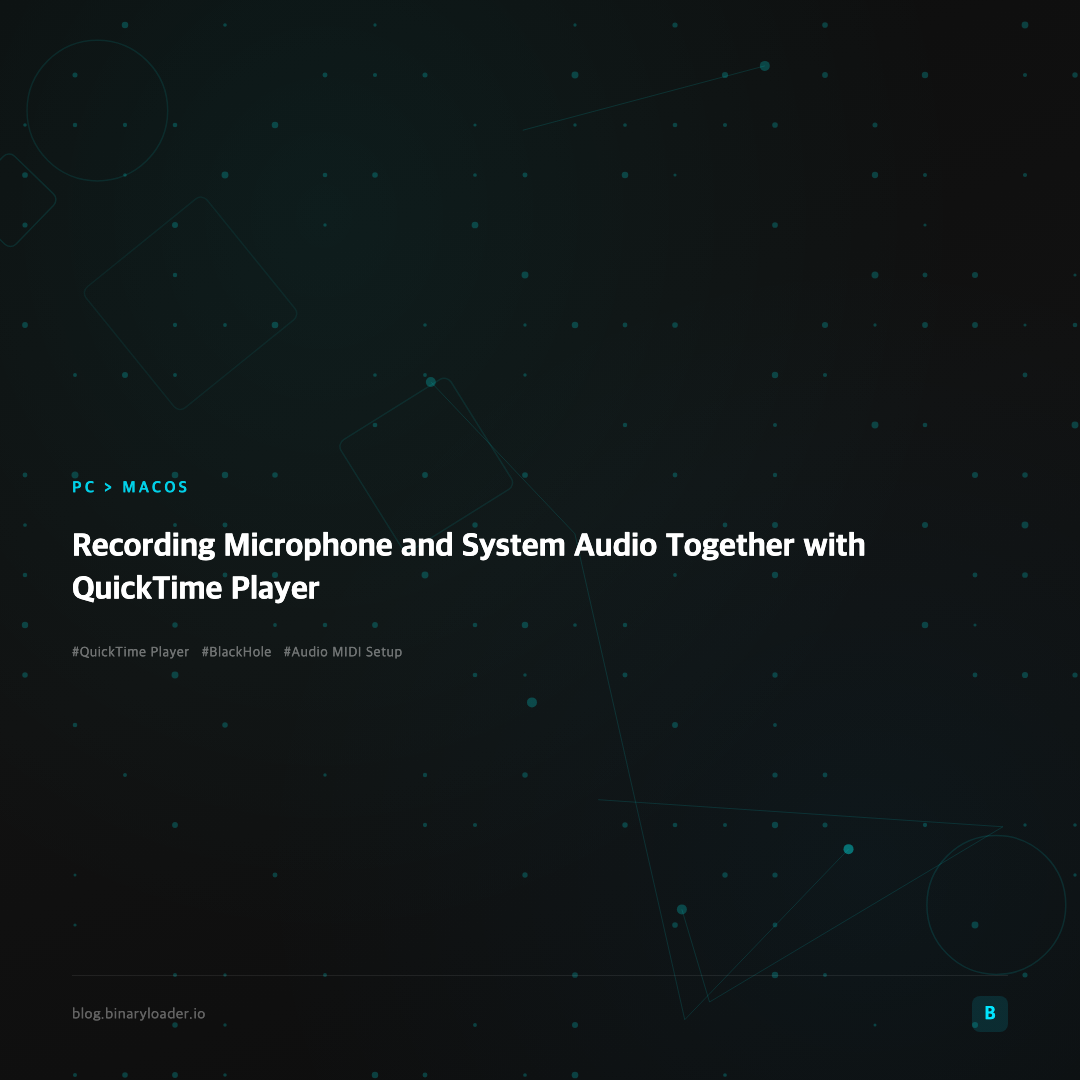
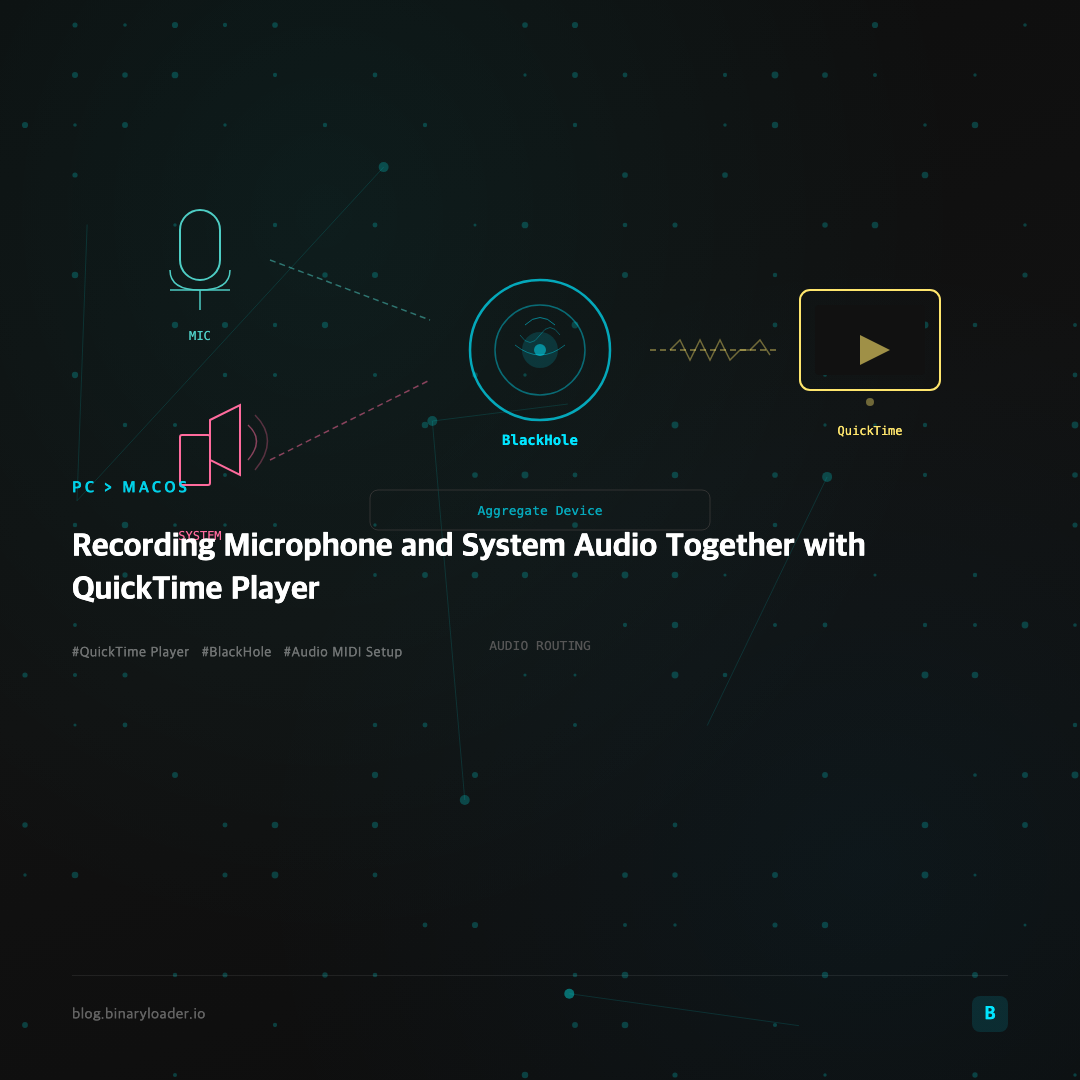
feat: add custom illustration for BlackHole audio recording post

diff --git a/tools/thumbnail/lib/illustrations.js b/tools/thumbnail/lib/illustrations.js
@@ -1491,6 +1491,61 @@ function illustrationBuildingClaudeVoiceAssistant() {
   `;
 }
 
+// 53. QuickTime BlackHole audio recording
+function illustrationQuicktimeBlackholeAudioRecording() {
+  return `
+    <rect x="0" y="0" width="1080" height="700" fill="none"/>
+    <!-- Microphone -->
+    <g transform="translate(200, 260)">
+      <rect x="-20" y="-50" width="40" height="70" rx="20" fill="none" stroke="#4ecdc4" stroke-width="2"/>
+      <line x1="-30" y1="30" x2="30" y2="30" stroke="#4ecdc4" stroke-width="1.5"/>
+      <path d="M-30,10 Q-30,30 0,30 Q30,30 30,10" fill="none" stroke="#4ecdc4" stroke-width="1.5"/>
+      <line x1="0" y1="30" x2="0" y2="50" stroke="#4ecdc4" stroke-width="1.5"/>
+    </g>
+    <text x="200" y="340" text-anchor="middle" font-family="monospace" font-size="12" fill="#4ecdc4">MIC</text>
+    <!-- Speaker / System Audio -->
+    <g transform="translate(200, 460)">
+      <rect x="-20" y="-25" width="30" height="50" rx="2" fill="none" stroke="#ff6b9d" stroke-width="2"/>
+      <polygon points="10,-40 40,-55 40,15 10,0" fill="none" stroke="#ff6b9d" stroke-width="2"/>
+      <path d="M48,-35 Q65,-20 48,0" fill="none" stroke="#ff6b9d" stroke-width="1.5" opacity="0.5"/>
+      <path d="M55,-45 Q80,-20 55,10" fill="none" stroke="#ff6b9d" stroke-width="1.5" opacity="0.3"/>
+    </g>
+    <text x="200" y="540" text-anchor="middle" font-family="monospace" font-size="12" fill="#ff6b9d">SYSTEM</text>
+    <!-- Audio flow lines to BlackHole -->
+    <line x1="270" y1="260" x2="430" y2="320" stroke="#4ecdc4" stroke-width="1.5" stroke-dasharray="6,4" opacity="0.5"/>
+    <line x1="270" y1="460" x2="430" y2="380" stroke="#ff6b9d" stroke-width="1.5" stroke-dasharray="6,4" opacity="0.5"/>
+    <!-- BlackHole virtual driver -->
+    <g transform="translate(540, 350)">
+      <circle cx="0" cy="0" r="70" fill="none" stroke="#00e5ff" stroke-width="2.5" opacity="0.7"/>
+      <circle cx="0" cy="0" r="45" fill="none" stroke="#00e5ff" stroke-width="1.5" opacity="0.4"/>
+      <circle cx="0" cy="0" r="18" fill="#00e5ff" opacity="0.15"/>
+      <circle cx="0" cy="0" r="6" fill="#00e5ff" opacity="0.5"/>
+    </g>
+    <text x="540" y="445" text-anchor="middle" font-family="monospace" font-size="14" font-weight="bold" fill="#00e5ff">BlackHole</text>
+    <!-- Swirl effect in BlackHole -->
+    <path d="M525,325 Q540,310 555,325" fill="none" stroke="#00e5ff" stroke-width="1" opacity="0.5"/>
+    <path d="M515,345 Q540,365 565,345" fill="none" stroke="#00e5ff" stroke-width="1" opacity="0.4"/>
+    <path d="M520,335 Q530,350 540,335 Q550,320 560,335" fill="none" stroke="#00e5ff" stroke-width="1" opacity="0.3"/>
+    <!-- Audio flow to QuickTime -->
+    <line x1="650" y1="350" x2="780" y2="350" stroke="#ffe66d" stroke-width="1.5" stroke-dasharray="6,4" opacity="0.5"/>
+    <!-- Waveform on the line -->
+    <polyline points="670,350 680,340 690,360 700,340 710,360 720,340 730,360 740,350 750,350 760,340 770,355" fill="none" stroke="#ffe66d" stroke-width="1.5" opacity="0.4"/>
+    <!-- QuickTime Player -->
+    <g transform="translate(870, 350)">
+      <rect x="-70" y="-60" width="140" height="100" rx="10" fill="none" stroke="#ffe66d" stroke-width="2"/>
+      <rect x="-55" y="-45" width="110" height="70" rx="4" fill="#111"/>
+      <polygon points="-10,-15 20,0 -10,15" fill="#ffe66d" opacity="0.6"/>
+      <circle cx="0" cy="52" r="4" fill="#ffe66d" opacity="0.4"/>
+    </g>
+    <text x="870" y="435" text-anchor="middle" font-family="monospace" font-size="12" fill="#ffe66d">QuickTime</text>
+    <!-- Aggregate device label -->
+    <rect x="370" y="490" width="340" height="40" rx="8" fill="none" stroke="#333" stroke-width="1"/>
+    <text x="540" y="515" text-anchor="middle" font-family="monospace" font-size="13" fill="#00e5ff" opacity="0.7">Aggregate Device</text>
+    <!-- Bottom label -->
+    <text x="540" y="650" text-anchor="middle" font-family="monospace" font-size="13" fill="#555">AUDIO ROUTING</text>
+  `;
+}
+
 // ===== ILLUSTRATION MAP =====
 const ILLUSTRATION_MAP = {
   'the-end-of-developer-scarcity': illustrationTheEndOfDeveloperScarcity,
@@ -1545,6 +1600,7 @@ const ILLUSTRATION_MAP = {
   'xcode12-build-ios15': illustrationXcode12BuildIos15,
   'claude-github-pr-auto-review': illustrationClaudeGithubPrAutoReview,
   'building-claude-code-voice-assistant': illustrationBuildingClaudeVoiceAssistant,
+  'quicktime-blackhole-audio-recording': illustrationQuicktimeBlackholeAudioRecording,
 };
 
 function getIllustration(ref) {
